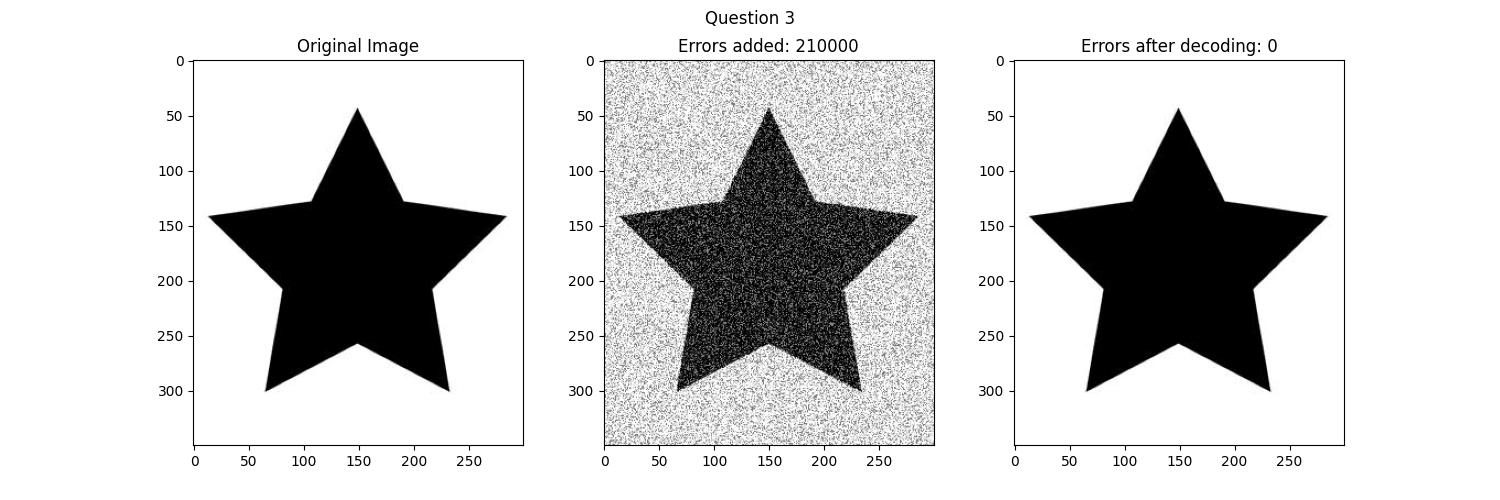
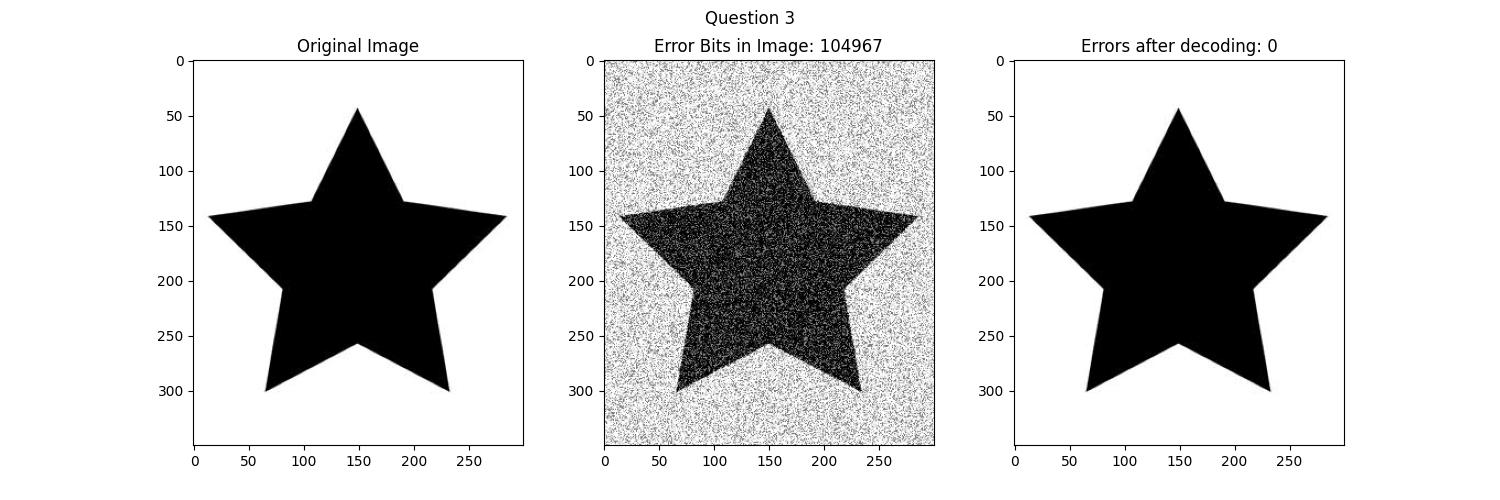
AdvComm lab4: Fixed odd error bit counts

Changed region(s): [[0.3987, 0.06, 0.644, 0.9]]

diff --git a/advanced_comm_lab/exp4_Hamming.py b/advanced_comm_lab/exp4_Hamming.py
@@ -129,9 +129,9 @@ for i in range(0, array_hamming_noise.size, 7):
     k = i * 4 // 7
     array_q3_noisy[k:k + 4] = decode_without_FEC(array_hamming_noise[i:i + 7])
 
-# Print how many errors were added in total
-flipped_bits = np.sum(array_hamming != array_hamming_noise)
-print(f'Errors added: {flipped_bits}')
+# Print how many errors were added to the image
+flipped_bits = np.sum(array_in != array_q3_noisy)
+print(f'Error Bits in Image: {flipped_bits}')
 
 # Decode the Hamming(7,4) encoding in reversed order and correct the error, assign the corrected value to the decoded array
 decoded_array = np.zeros(array.size, dtype=np.uint8)
@@ -158,7 +158,7 @@ plt.title('Original Image')
 # Plot the noisy image
 plt.subplot(1, 3, 2)  # 1 row, 3 columns, 2nd subplot
 plt.imshow(image_q3_with_noise, cmap='gray')
-plt.title(f'Errors added: {flipped_bits}')
+plt.title(f'Error Bits in Image: {flipped_bits}')
 # Plot the decoded image
 plt.subplot(1, 3, 3)  # 1 row, 3 columns, 2nd subplot
 plt.imshow(image_q3, cmap='gray')
@@ -212,9 +212,9 @@ for i in range(0, array_hamming_noise.size, 7):
     k = i * 4 // 7
     array_q3_noisy[k:k + 4] = decode_without_FEC(array_hamming_noise[i:i + 7])
 
-# Print how many errors were added in total
-flipped_bits = np.sum(array_hamming != array_hamming_noise)
-print(f'Errors added: {flipped_bits}')
+# Print how many errors were added to the image
+flipped_bits = np.sum(array_in != array_q3_noisy)
+print(f'Error Bits in Image: {flipped_bits}')
 
 # Decode the Hamming(7,4) encoding in reversed order and correct the error, assign the corrected value to the decoded array
 for i in range(array_hamming_noise.size - 7, -1, -7):
@@ -240,7 +240,7 @@ plt.title('Original Image')
 # Plot the noisy image
 plt.subplot(1, 3, 2)  # 1 row, 3 columns, 2nd subplot
 plt.imshow(image_q3_with_noise, cmap='gray')
-plt.title(f'Errors added: {flipped_bits}')
+plt.title(f'Error Bits in Image: {flipped_bits}')
 # Plot the decoded image
 plt.subplot(1, 3, 3)  # 1 row, 3 columns, 2nd subplot
 plt.imshow(image_q3, cmap='gray')
